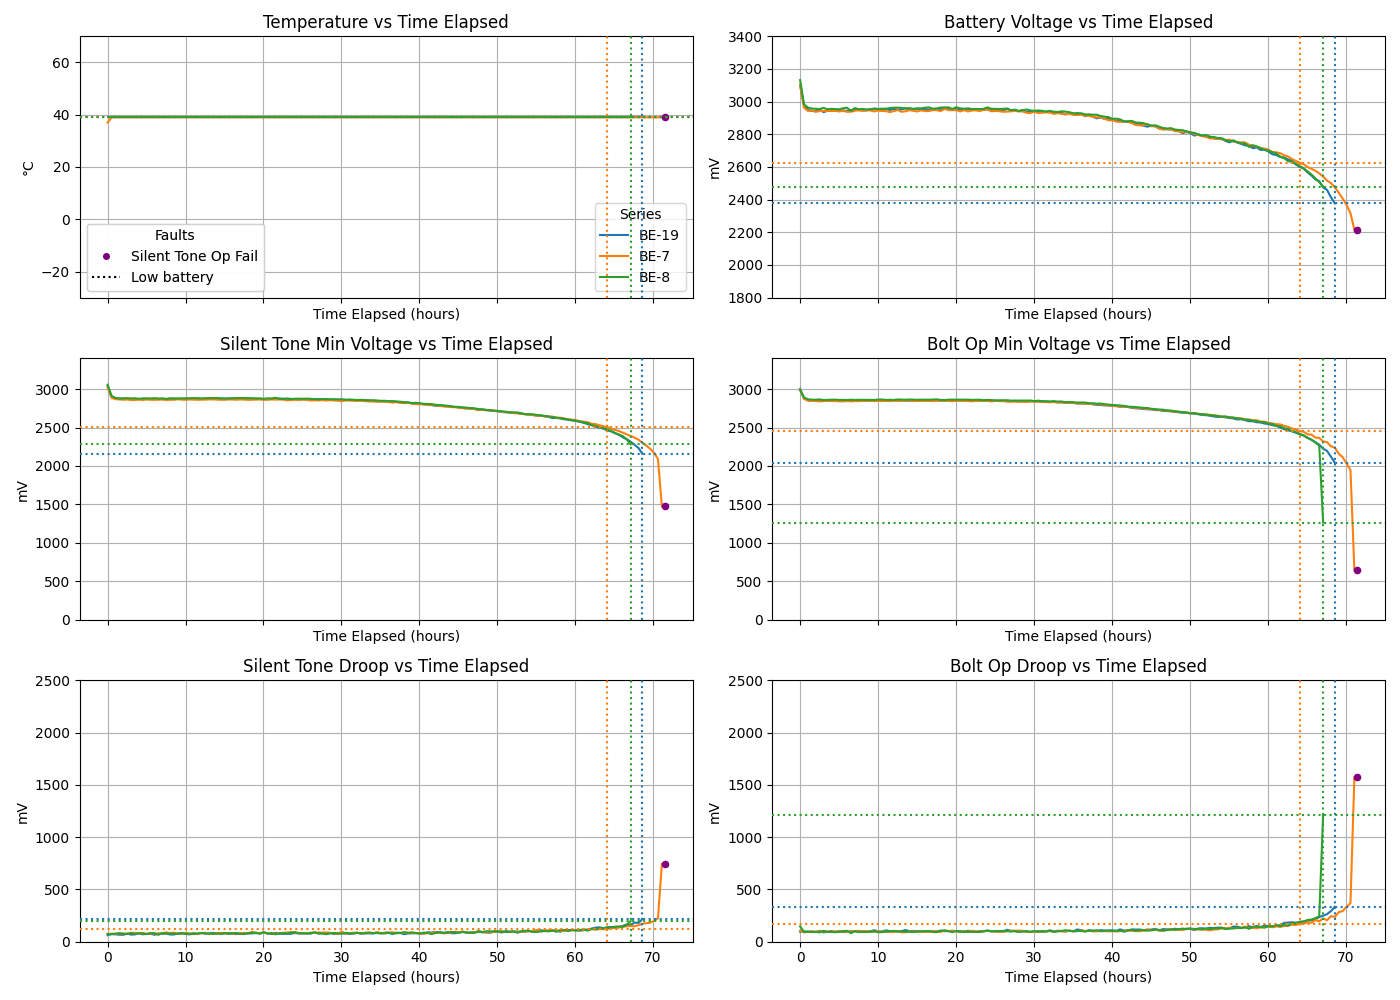
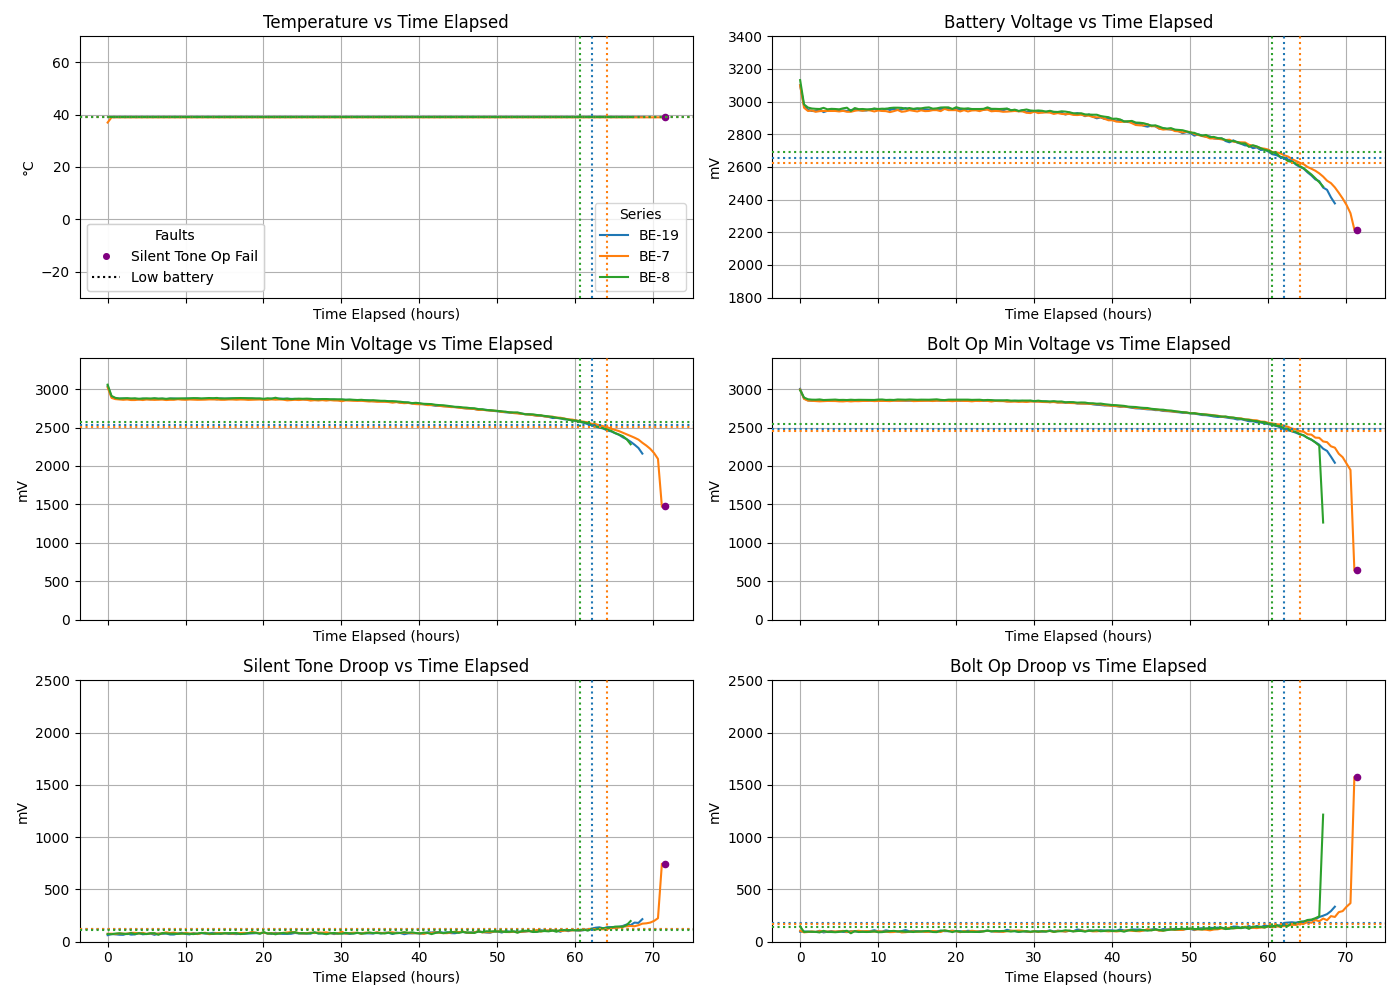
duracell 40c

diff --git a/plot_folder.py b/plot_folder.py
@@ -6,7 +6,7 @@ import numpy as np  # NEW
 from matplotlib.lines import Line2D
 
 # CONFIGURATION
-CSV_DIR = "csvs/manufacturers-cross-temp/temp-40c/level"
+CSV_DIR = "csvs/manufacturers-cross-temp/temp-40c/duracell"
 CSV_TAG = os.path.basename(os.path.normpath(CSV_DIR))
 PLOT_OUTPUT = f"plots/compare_all_{CSV_DIR.replace("/", "-")}.png"
 COMPUTE_LOW_BATT_BY_ALL_FAULTS=True
